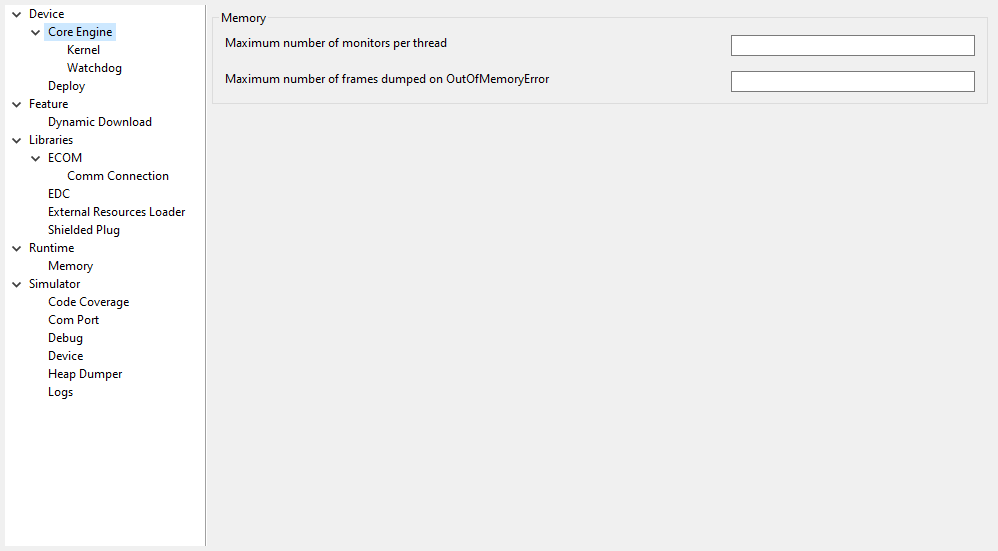
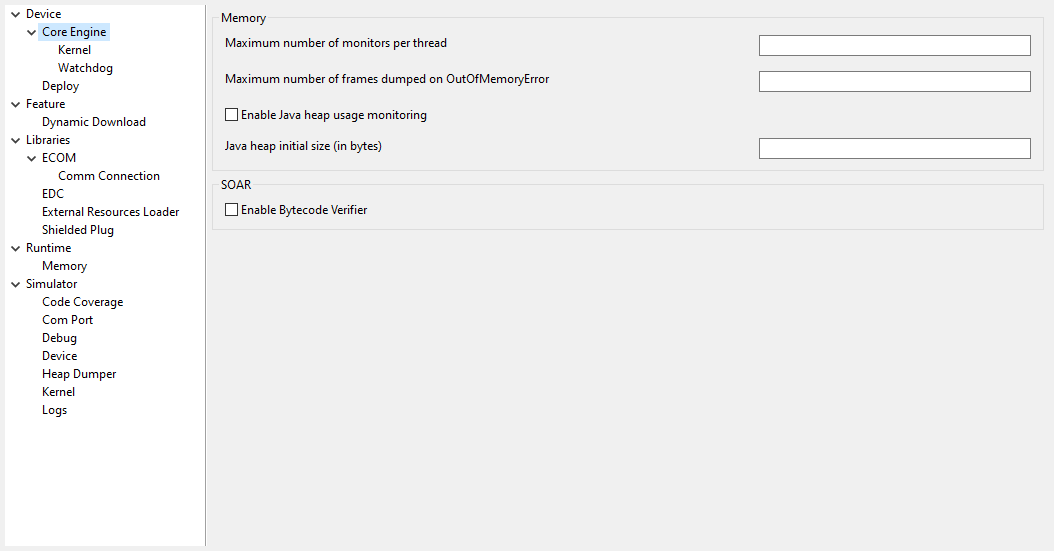
M0081MEJA-1158 Update launcher options with heap usage monitoring and HIL frame size

diff --git a/ApplicationDeveloperGuide/sectionArchitectureOptions.rst b/ApplicationDeveloperGuide/sectionArchitectureOptions.rst
@@ -188,7 +188,7 @@ Category: Simulator
 
 .. figure:: images/architecture_options/img3.png
    :align: center
-   :width: 998px
+   :width: 1054x
    :height: 551px
 
 Group: Options
@@ -252,8 +252,8 @@ Option(checkbox): Specify a port
 When selected allows the use of a specific HIL connection port, otherwise a
 random free port is used.
 
-Option(text): HIL connection port
-^^^^^^^^^^^^^^^^^^^^^^^^^^^^^^^^^
+Option(text): Port
+^^^^^^^^^^^^^^^^^^
 
 *Option Name*: ``s3.hil.port``
 
@@ -270,8 +270,8 @@ Option(text): HIL connection port
 
 It specifies the port used by the MicroEJ Simulator to accept HIL connections.
 
-Option(text): HIL connection timeout
-^^^^^^^^^^^^^^^^^^^^^^^^^^^^^^^^^^^^
+Option(text): Timeout (s)
+^^^^^^^^^^^^^^^^^^^^^^^^^
 
 *Option Name*: ``s3.hil.timeout``
 
@@ -285,6 +285,18 @@ Option(text): HIL connection timeout
 
 It specifies the time the MicroEJ Simulator should wait before failing when
 it invokes native methods.
+
+Option(text): Maximum frame size (bytes)
+^^^^^^^^^^^^^^^^^^^^^^^^^^^^^^^^^^^^^^^^^
+
+*Option Name*: ``com.microej.simulator.hil.frame.size``
+
+*Default value*: ``262144``
+
+*Description*:
+
+Maximum frame size in bytes. Must be increased to transfer large arrays to
+native side.
 
 Group: Shielded Plug server configuration
 -----------------------------------------
@@ -819,7 +831,7 @@ Category: Core Engine
 
 .. figure:: images/architecture_options/img17.png
    :align: center
-   :width: 998px
+   :width: 1054px
    :height: 551px
 
 Group: Memory
@@ -849,6 +861,34 @@ Option(text):
 
 Specifies the maximum number of stack frames that can be dumped to the standard
 output when Core Engine throws an OutOfMemoryError.
+
+Option(checkbox): Enable Java heap usage monitoring
+"""""""""""""""""""""""""""""""""""""""""""""""""""
+
+*Option Name*: ``com.microej.runtime.debug.heap.monitoring.enabled``
+
+*Default value*: ``false``
+
+Option(text):
+""""""""""""""
+
+*Option Name*: ``com.microej.runtime.debug.heap.monitoring.init.size``
+
+*Default value*: ``0``
+
+*Description*:
+
+Specify the initial size (in bytes) of the Java Heap.
+
+Group: SOAR
+^^^^^^^^^^^
+
+Option(checkbox): Enable Bytecode Verifier
+""""""""""""""""""""""""""""""""""""""""""
+
+*Option Name*: ``soar.bytecode.verifier``
+
+*Default value*: ``false``
 
 Category: Kernel
 ^^^^^^^^^^^^^^^^
@@ -1028,7 +1068,7 @@ Option(browse): Kernel
 
 
 ..
-   | Copyright 2008-2020, MicroEJ Corp. Content in this space is free 
+   | Copyright 2008-2021, MicroEJ Corp. Content in this space is free 
    for read and redistribute. Except if otherwise stated, modification 
    is subject to MicroEJ Corp prior approval.
    | MicroEJ is a trademark of MicroEJ Corp. All other trademarks and 
